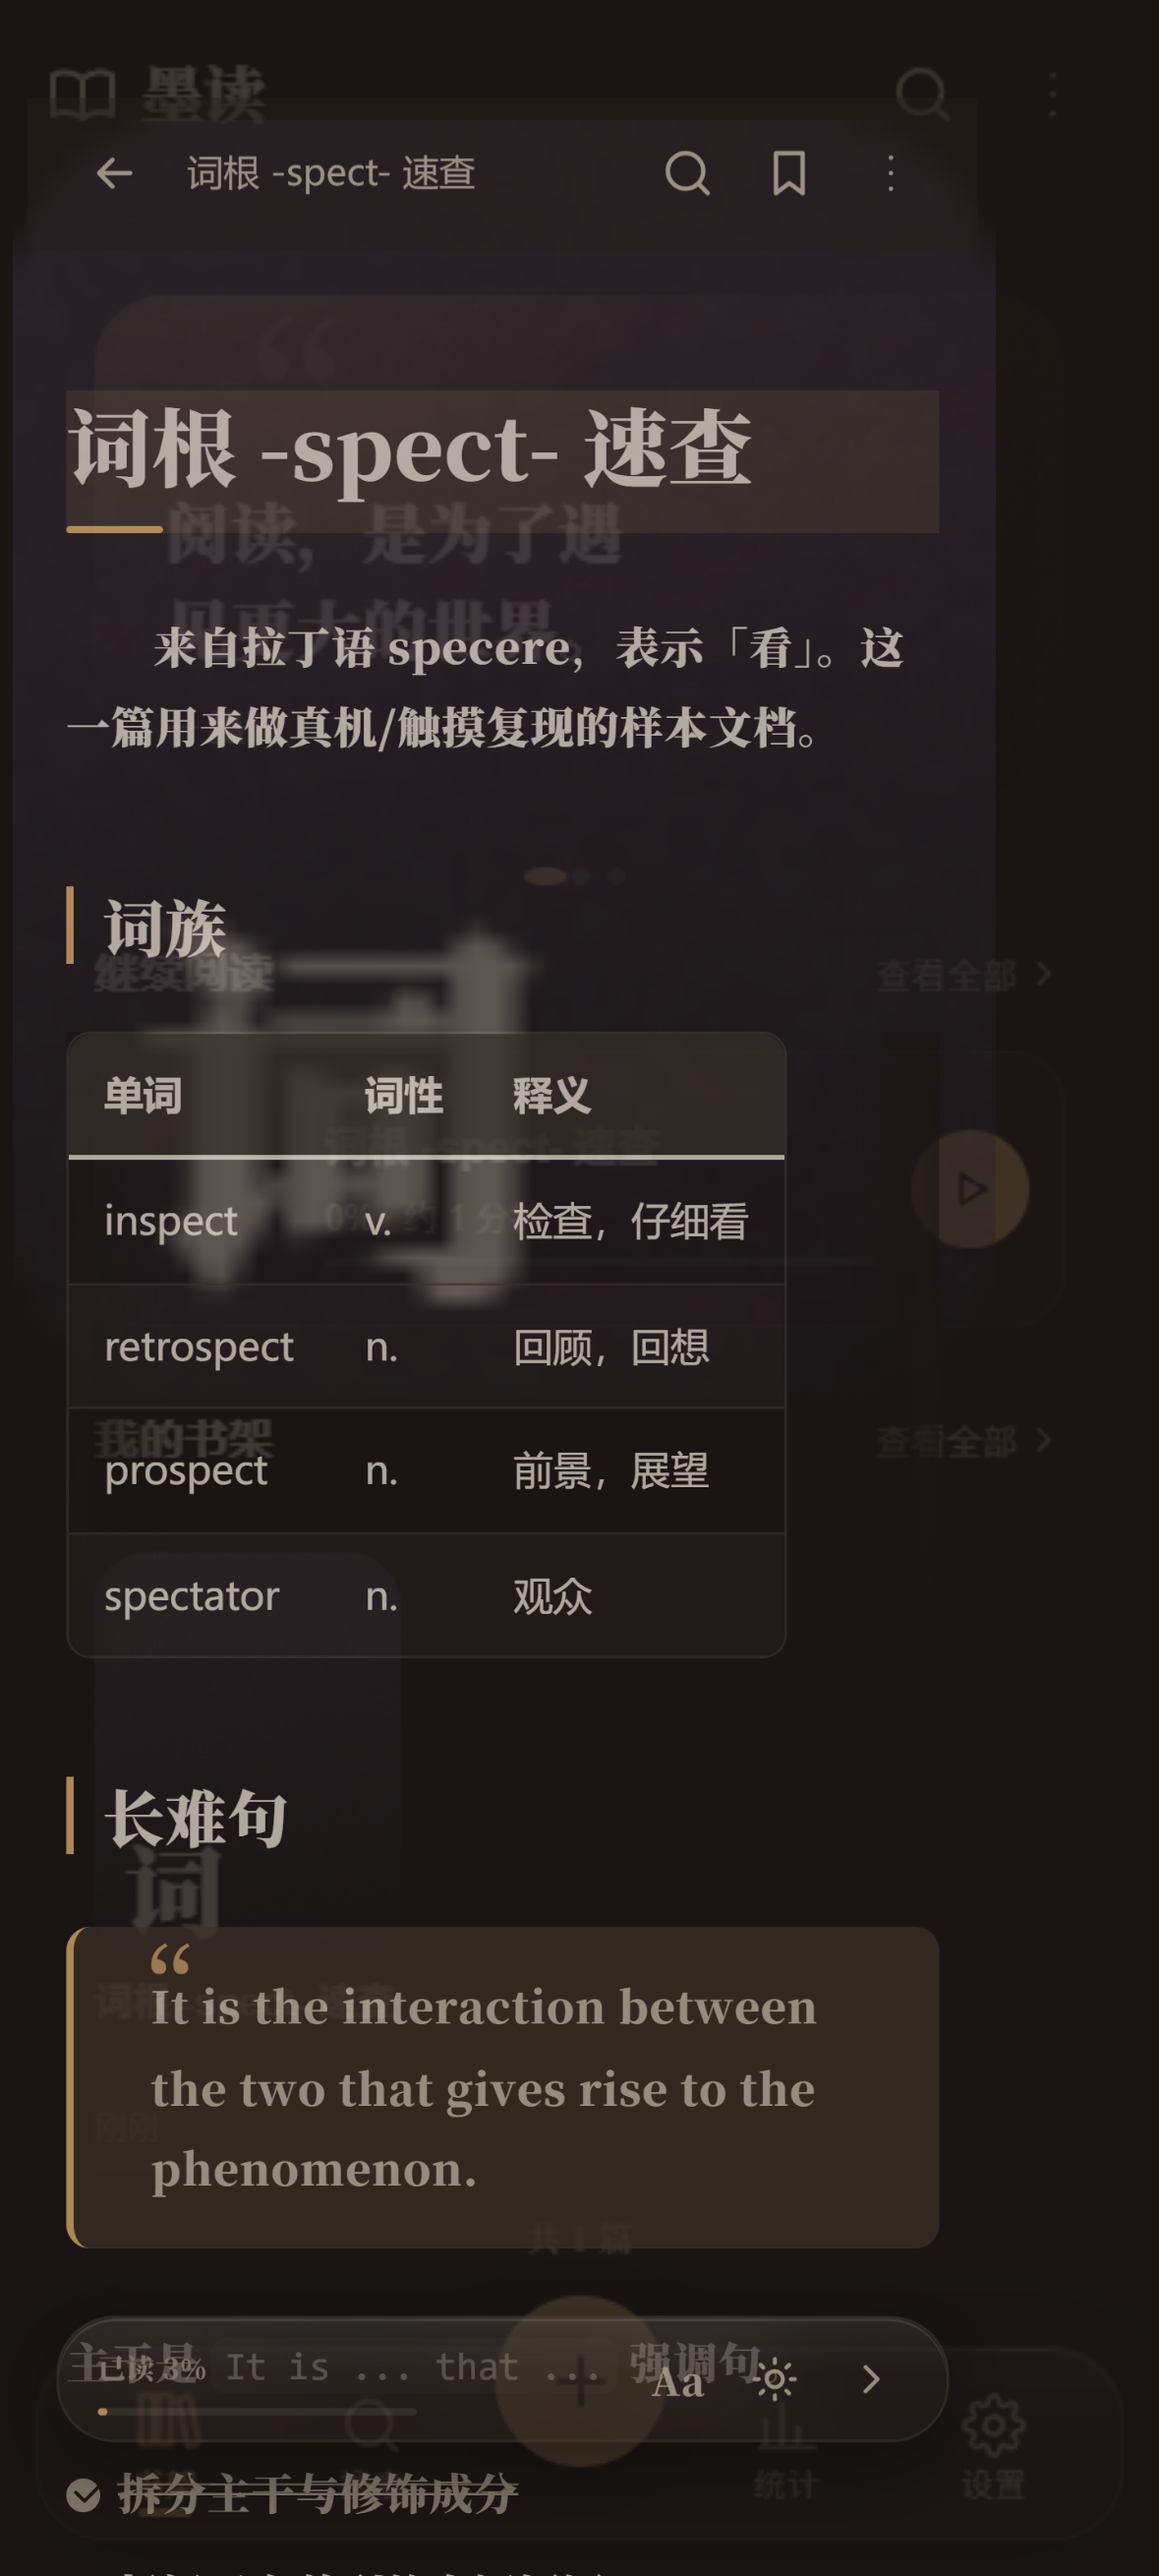
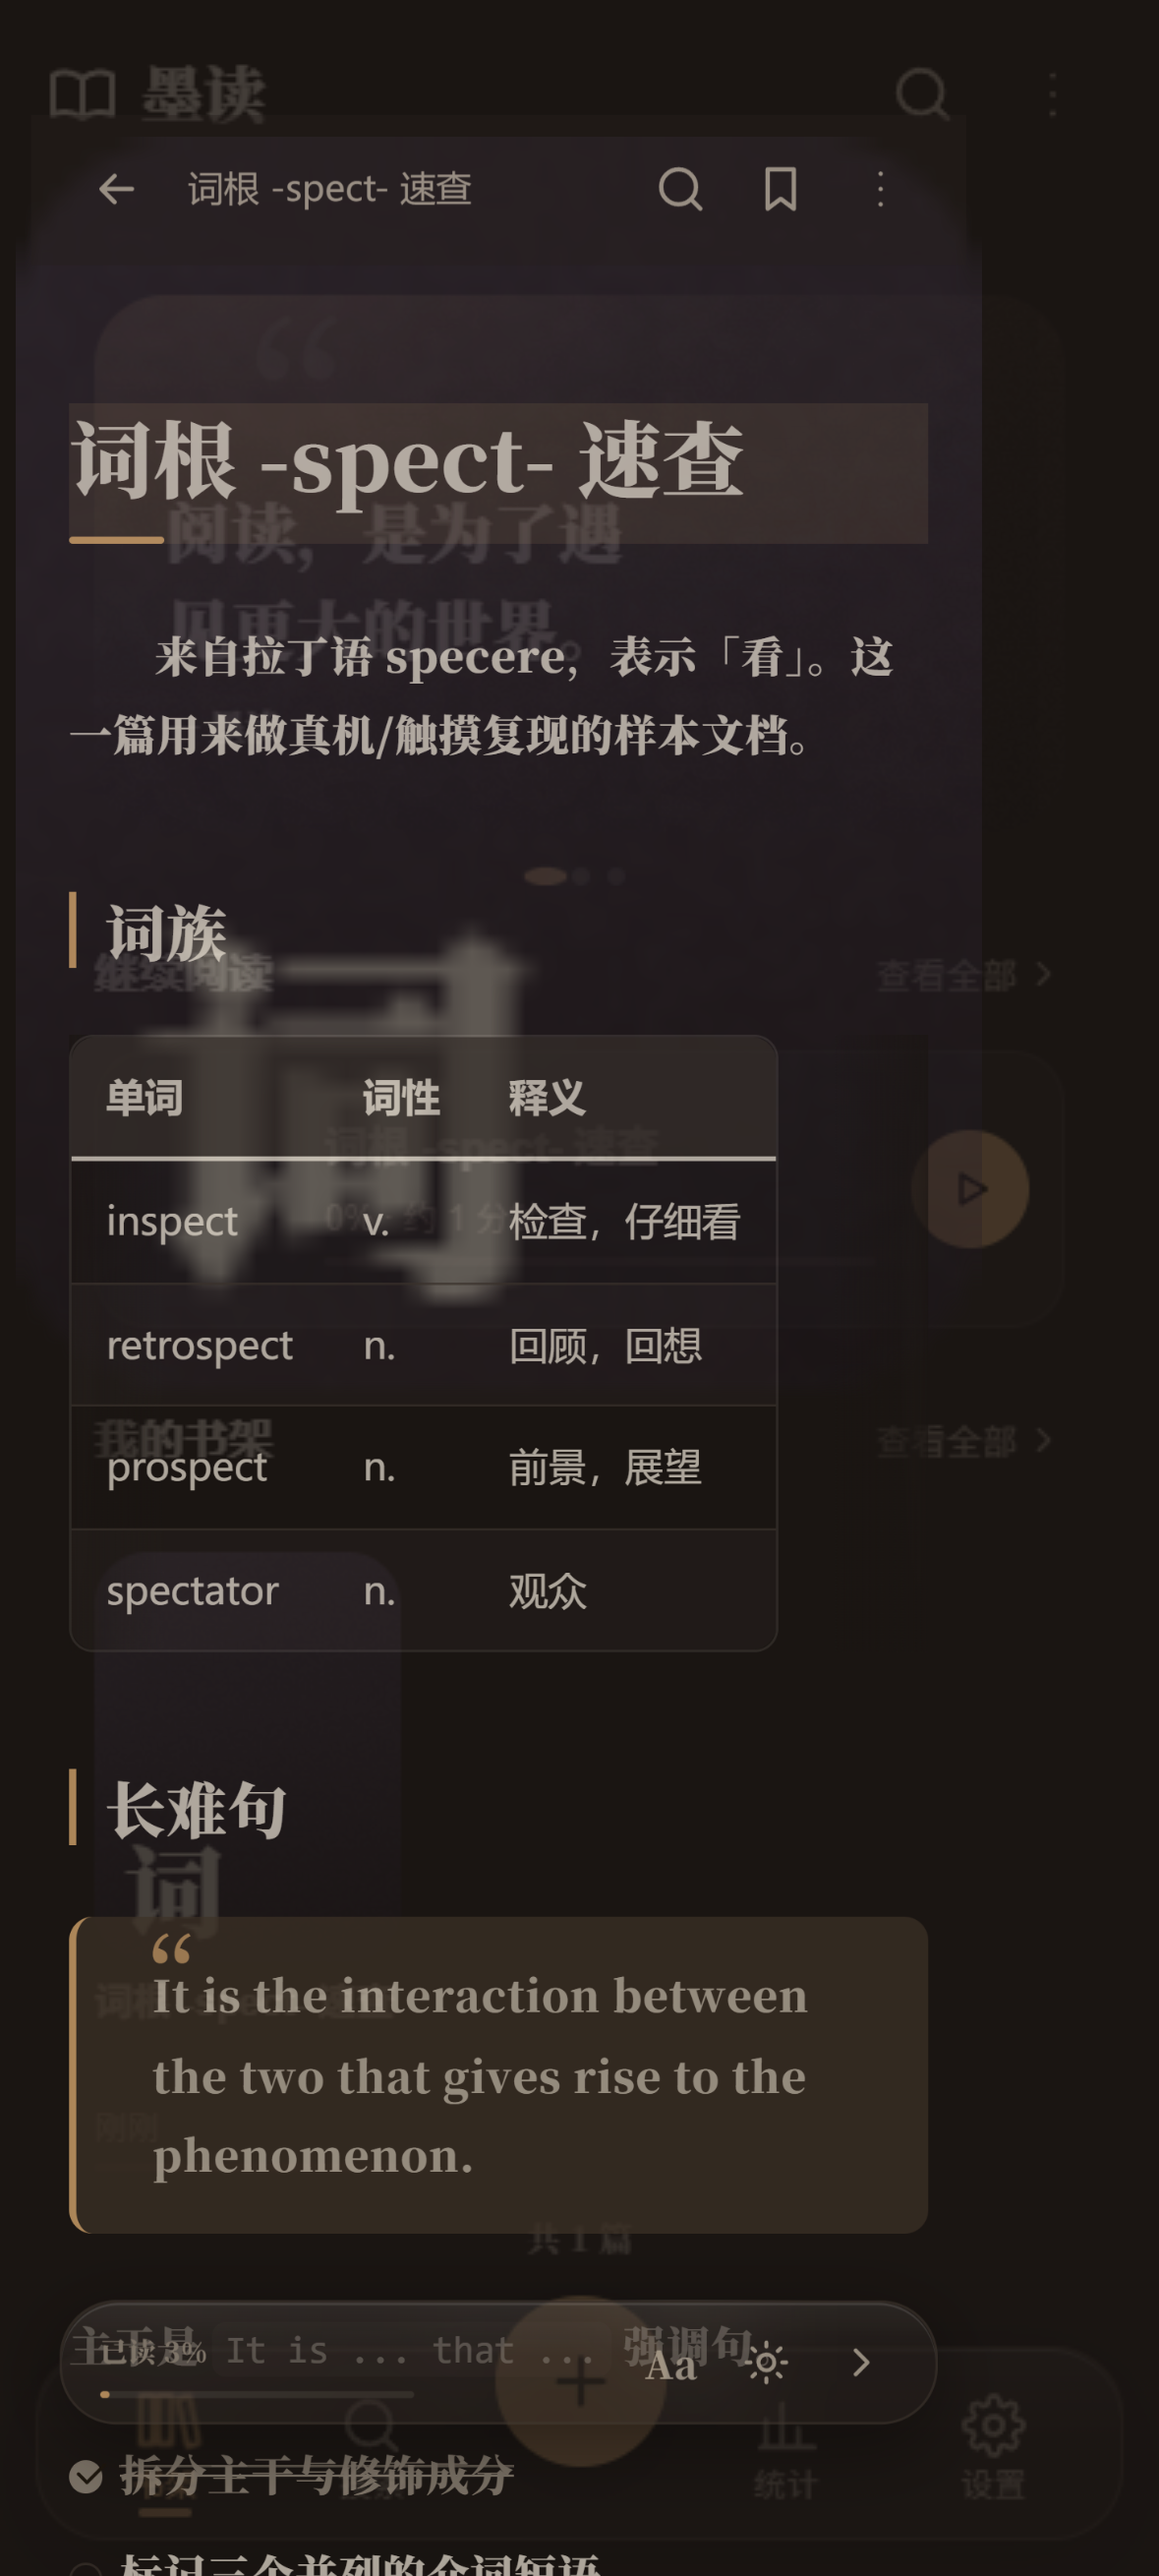
fix(#3): 阅读页第一下点屏幕没反应 → 沉浸切换按实际可见状态判断 + 残留选区不再吞点击
根因确认（与任务书一致，实测同一现象）：
- toggleImmersive 按 data-immersive 取反，不看顶栏实际可见性；滚动后 data-bars=hidden
  但 immersive 仍是 0，第一下把 immersive 置 1 再 setBars('hidden')，屏幕无变化
- 点击 handler 里 selection.toString().length > 0 直接 return，WebView 残留选区会吞掉点击

修复（web/src/views/reader.ts）：
- toggleImmersive 改为按 data-bars 实际状态切换；data-immersive 只表示「暂停滚动自动收放」
- 残留选区：先 removeAllRanges 再继续切换，不再吞点击
- 工具条开着时这一下只关工具条：selection.ts 在 onOutsideDown 记录「按下时工具条是否可见」，
  阅读页用 consumeToolbarOnPointerDown() 消费（pointerdown 时工具条已被收掉，click 再查 DOM 查不到）

验证：repro --only=3 修前 2/4 → 修后 4/4（滚动后第一下即切换；残留选区点击 bars hidden→shown 且选区清零）
证据：docs/screenshots/fix-round1/before|after/03-*.png；vitest 605 全绿

diff --git a/web/src/views/reader.ts b/web/src/views/reader.ts
@@ -13,7 +13,13 @@
 import type { RenderResult, State, TaskState } from '../core/types';
 import { el, icon, type PageView, type ViewDeps } from './app';
 import { applyMarkHighlights, clearMarkHighlights } from './marks-render';
-import { bindTextSelection, hideSelectionToolbar, showMarkActions, type SelectionBinding } from './selection';
+import {
+  bindTextSelection,
+  consumeToolbarOnPointerDown,
+  hideSelectionToolbar,
+  showMarkActions,
+  type SelectionBinding,
+} from './selection';
 import { buildTtsChunks } from '../core/tts';
 import { createTtsPlayer, speechSupported, type TtsPlayer } from './tts';
 import type { MenuSpec } from './menu';
@@ -302,10 +308,19 @@ export function createReaderPage(initial: State, deps: ViewDeps): PageView {
       return;
     }
 
-    // 空白处：链接、按钮、可标注块里的文字选中都不算空白
+    // 空白处：链接、按钮、输入控件都不算空白
     if (target.closest('a, button, input, label')) return;
+
+    // 这一下按在工具条外、且按下时工具条还开着 → 只负责关工具条，不切沉浸
+    // （pointerdown 已经把它收掉了，这里只是不再叠加一次切换）
+    if (consumeToolbarOnPointerDown()) return;
+
+    // 残留选区（长按/取消工具条后 WebView 常留一个 Range）不能吞掉点击：
+    // 先清掉选区，再继续切换沉浸。
     const selection = window.getSelection();
-    if (selection !== null && selection.toString().length > 0) return;
+    if (selection !== null && selection.toString().length > 0) {
+      selection.removeAllRanges();
+    }
     toggleImmersive();
   });
 
@@ -362,10 +377,22 @@ export function createReaderPage(initial: State, deps: ViewDeps): PageView {
     }
   }
 
+  /**
+   * 点空白处切换沉浸模式。
+   *
+   * 必须按「顶栏实际是否可见」来切，不能按 data-immersive 取反：
+   * 用户向下滚动后顶栏已被滚动逻辑自动收起（data-bars=hidden，但 immersive 仍是 0），
+   * 此时取反会先把 immersive 变成 1 再 setBars('hidden')，屏幕毫无变化，
+   * 要点第二下才看得到反应。
+   *
+   * 两套状态合并为一个语义：
+   *   - data-bars       = 顶栏/底栏此刻是否可见（唯一可见性来源）
+   *   - data-immersive  = 是否暂停「滚动自动收放」（用户手动切到隐藏时才暂停）
+   */
   function toggleImmersive(): void {
-    const next = page.getAttribute('data-immersive') === '1' ? '0' : '1';
-    page.setAttribute('data-immersive', next);
-    setBars(next === '1' ? 'hidden' : 'shown');
+    const hidden = page.getAttribute('data-bars') === 'hidden';
+    setBars(hidden ? 'shown' : 'hidden');
+    page.setAttribute('data-immersive', hidden ? '0' : '1');
     lastBarY = window.scrollY;
   }
 

diff --git a/web/src/views/selection.ts b/web/src/views/selection.ts
@@ -54,6 +54,15 @@ export interface SelectionBinding {
 
 /** 同一时刻只允许一个工具条。 */
 let activeToolbar: HTMLElement | null = null;
+/** 最近一次 pointerdown 发生时工具条是否可见（供阅读页点击逻辑消费）。 */
+let pointerDownHadToolbar = false;
+
+/** 取走「按下时工具条是否开着」并复位，保证一次点击只消费一次。 */
+export function consumeToolbarOnPointerDown(): boolean {
+  const value = pointerDownHadToolbar;
+  pointerDownHadToolbar = false;
+  return value;
+}
 let activeClear: (() => void) | null = null;
 
 /** 收起工具条与选区高亮。 */
@@ -439,8 +448,15 @@ export function bindTextSelection(article: HTMLElement, handlers: SelectionHandl
     }, NATIVE_SELECTION_DEBOUNCE_MS);
   };
 
-  /** 工具条外的 pointerdown 要先收起工具条（捕获阶段，早于正文自己的 onDown）。 */
+  /**
+   * 工具条外的 pointerdown 要先收起工具条（捕获阶段，早于正文自己的 onDown）。
+   *
+   * 同时记下「这一下按下时工具条是否还开着」：pointerdown 已经把工具条收掉了，
+   * 等到 click 再查 DOM 就永远查不到。阅读页「点空白处切沉浸」靠它判断
+   * 这一下应该只关工具条，还是继续切换沉浸。
+   */
   const onOutsideDown = (event: Event): void => {
+    pointerDownHadToolbar = activeToolbar !== null;
     if (activeToolbar === null) return;
     const target = event.target;
     if (target instanceof Element && target.closest('.sel-toolbar') !== null) return;
